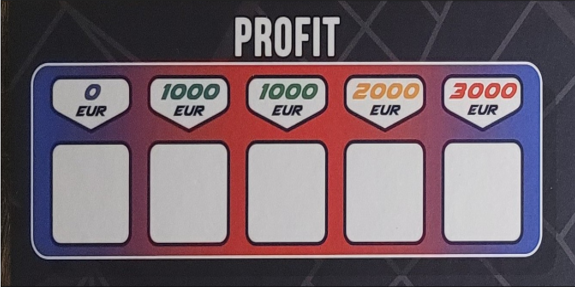
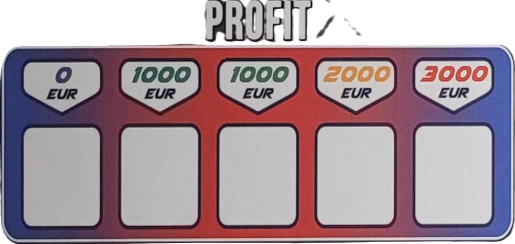
profit table looks better

diff --git a/prof1/MainWindow.xaml b/prof1/MainWindow.xaml
@@ -20,9 +20,11 @@
             <ColumnDefinition Width="5.5*"/>
             <ColumnDefinition Width="1*"/>
         </Grid.ColumnDefinitions>
-        <!--<Image Grid.Row="1" Grid.ColumnSpan="4" Source="/Images/TrendLine.png"/>-->
-        <Image Grid.Row="0" Grid.Column="0" Grid.ColumnSpan="2" Source="/Images/Profit2.png"/>
-        <Grid x:Name="gr_profit" Grid.Row="0" Grid.Column="0" Grid.ColumnSpan="2" Margin="40">
+        <Grid x:Name="gr_profit" Grid.Row="0" Grid.Column="0" Grid.ColumnSpan="2" Margin="20,70,40,30">
+            <Grid.Background>
+                <ImageBrush ImageSource="Images/Profit.png"/>
+            </Grid.Background>
+            
             <Grid.ColumnDefinitions>
                 <ColumnDefinition Width="1*"/>
                 <ColumnDefinition Width="1*"/>
@@ -31,16 +33,28 @@
                 <ColumnDefinition Width="1*"/>
             </Grid.ColumnDefinitions>
             <Grid.RowDefinitions>
-                <RowDefinition Height="1*"/>
-                <RowDefinition Height="1*"/>
-                <RowDefinition Height="1*"/>
-                <RowDefinition Height="1*"/>
-                <RowDefinition Height="1*"/>
-                <RowDefinition Height="1*"/>
-                <RowDefinition Height="1*"/>
-                <RowDefinition Height="1*"/>
-                <RowDefinition Height="1*"/>
-                <RowDefinition Height="1*"/>
+                <RowDefinition Height="17*"/>
+                <RowDefinition Height="5*"/>
+                <RowDefinition Height="2*"/>
+                <RowDefinition Height="5*"/>
+                <RowDefinition Height="4*"/>
+            </Grid.RowDefinitions>
+        </Grid>
+        <Grid x:Name="gr_profit1" Grid.Row="0" Grid.Column="0" Grid.ColumnSpan="2" Margin="40,70,20,30">
+            <Grid.ColumnDefinitions>
+                <ColumnDefinition Width="1*"/>
+                <ColumnDefinition Width="1*"/>
+                <ColumnDefinition Width="1*"/>
+                <ColumnDefinition Width="1*"/>
+                <ColumnDefinition Width="1*"/>
+            </Grid.ColumnDefinitions>
+            <Grid.RowDefinitions>
+                <RowDefinition Height="25*"/>
+                <RowDefinition Height="5*"/>
+                <RowDefinition Height="7*"/>
+                <RowDefinition Height="2*"/>
+                <RowDefinition Height="7*"/>
+                <RowDefinition Height="2*"/>
             </Grid.RowDefinitions>
         </Grid>
         <Grid Grid.Row="0" Grid.Column="2" Grid.ColumnSpan="2">

diff --git a/prof1/MainWindow.xaml.cs b/prof1/MainWindow.xaml.cs
@@ -27,8 +27,6 @@ namespace prof1
         public MainWindow()
         {
             InitializeComponent();
-            
-            
             //g_trendline.Visibility = Visibility.Collapsed;
             tb_honnan.IsEnabled = false;
             tb_hova.IsEnabled = false;
@@ -105,10 +103,18 @@ namespace prof1
         }
         void MoveCircle(CircleImage image)
         {
-
-            gr_profit.Children.Remove(image);
-            Grid.SetColumn(image, image.Column);
-            gr_profit.Children.Add(image);
+            if (image.Color.Equals("red") || image.Color.Equals("blue"))
+            {
+                gr_profit.Children.Remove(image);
+                Grid.SetColumn(image, image.Column);
+                gr_profit.Children.Add(image);
+            }
+            else
+            {
+                gr_profit1.Children.Remove(image);
+                Grid.SetColumn(image, image.Column);
+                gr_profit1.Children.Add(image);
+            }
 
         }
 
@@ -170,7 +176,7 @@ namespace prof1
             gridCircles[2] = new CircleImage("g_circle", "g_circle.png", "green", data.GreenProfit_Column);
             gridCircles[3] = new CircleImage("y_circle", "y_circle.png", "yellow", data.YellowProfit_Column);
             for (int i = 0; i < gridCircles.Length; i++)
-            {
+            {               
                 newCircleImage(gridCircles[i]);
             }
         }
@@ -192,16 +198,21 @@ namespace prof1
             switch (image.Color)
             {
                 case "red":
-                    Grid.SetRow(image, 5);
+                    Grid.SetRow(image, 1);
+                    gr_profit.Children.Add(image);
                     break;
                 case "blue":
-                    Grid.SetRow(image, 8); break;
+                    Grid.SetRow(image, 3); gr_profit.Children.Add(image);
+                    break;
                 case "green":
-                    Grid.SetRow(image, 7); break;
+                    Grid.SetRow(image, 2); gr_profit1.Children.Add(image);
+                    break;
+
                 case "yellow":
-                    Grid.SetRow(image, 6); break;
+                    Grid.SetRow(image, 4); gr_profit1.Children.Add(image);
+                    break;
+
             }
-            gr_profit.Children.Add(image);
         }
         void MoveArrow(int sourceColumn, int destinationColumn)
         {

diff --git a/prof1/CircleImage.cs b/prof1/CircleImage.cs
@@ -15,8 +15,22 @@ namespace prof1
             this.Color = color;
             this.Name=name;
             this.Source= new BitmapImage(new Uri("Images/Circles/" + fileName, UriKind.Relative));
+            this.Stretch = System.Windows.Media.Stretch.Fill;
             this.Column = column;
+            this.Margin= CalculateMargin();
         }
+
+        System.Windows.Thickness CalculateMargin()
+        {
+            
+            int leftMargin = 20; 
+            int topMargin = 0; 
+            int rightMargin = 20; 
+            int bottomMargin = 0;
+
+            return new System.Windows.Thickness(leftMargin, topMargin, rightMargin, bottomMargin);
+        }
+
 
         public string Color {  get; set; }
         public int Column {  get; set; }
